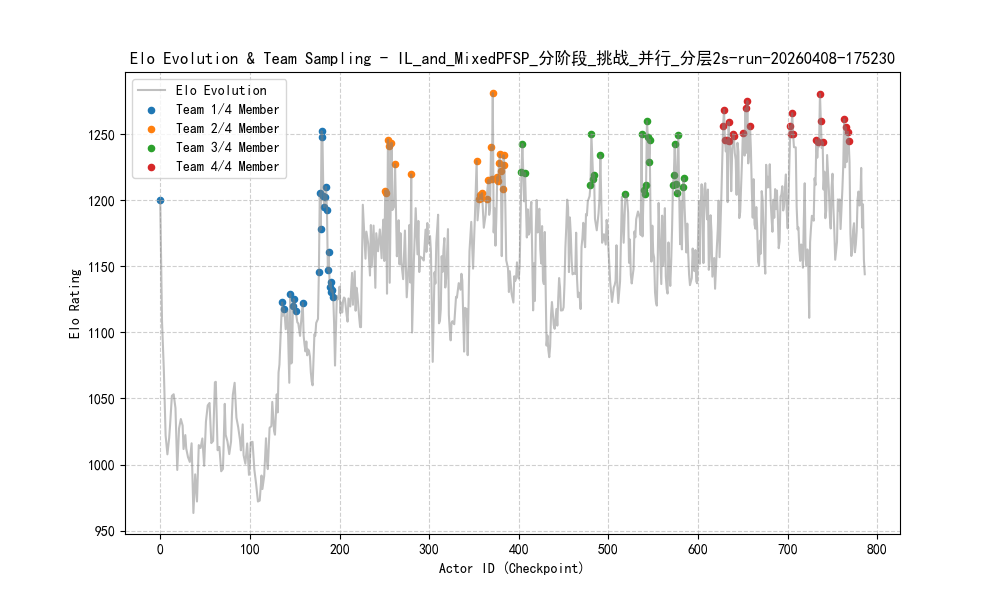
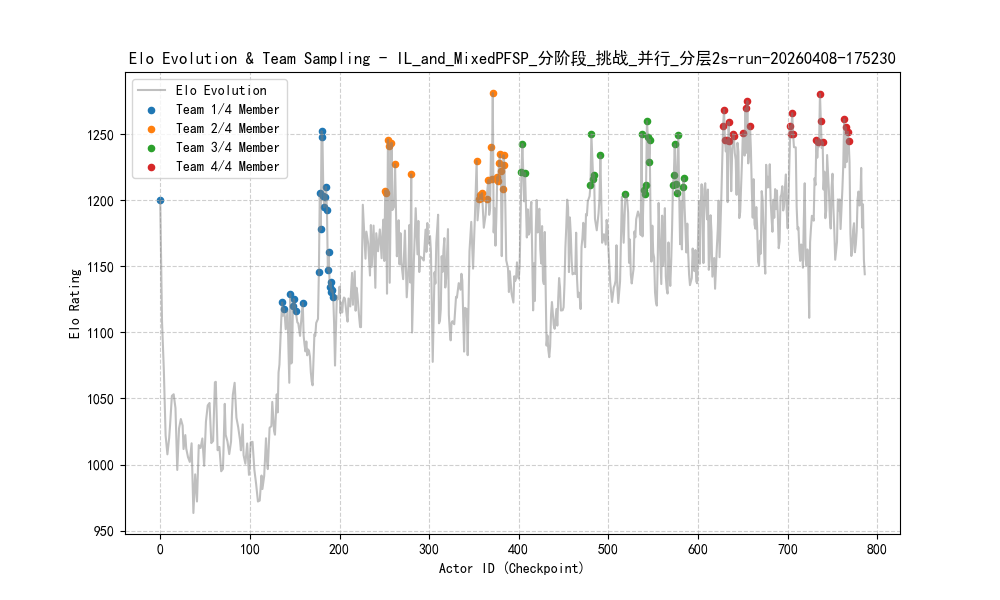
历史策略博弈矩阵

diff --git a/结果展示/历史切片博弈矩阵 并行 原目录.py b/结果展示/历史切片博弈矩阵 并行 原目录.py
@@ -96,8 +96,8 @@ def run_battle(env, blue_wrapper, red_wrapper, device):
                 r_act, _, _, _ = red_wrapper.get_action(r_obs, explore=explore_dict, temp=temp_dict)
                 b_act, _, _, _ = blue_wrapper.get_action(b_obs, explore=explore_dict, temp=temp_dict)
             # 交给环境物理函数使用 tabu=1 (相对宽松的条件) 拦截无效开火
-            if r_act['bern'][0]: launch_missile_immediately(env, 'r', tabu=1)
-            if b_act['bern'][0]: launch_missile_immediately(env, 'b', tabu=1)
+            if r_act['bern'][0]: launch_missile_immediately(env, 'r', tabu=0)
+            if b_act['bern'][0]: launch_missile_immediately(env, 'b', tabu=0)
             r_label, b_label = r_act['cat'][0], b_act['cat'][0]
 
         r_maneuver = env.maneuver14LR(env.RUAV, r_label)
@@ -122,7 +122,7 @@ def worker_process_battle(args_pack):
     
     # 1. 初始化环境
     # 注意：这里假设 Namespace 参数是固定的，如果需要动态传参需修改 args_pack
-    env = ChooseStrategyEnv(argparse.Namespace(max_episode_len=10 * 60, R_cage=45e3), tacview_show=0)
+    env = ChooseStrategyEnv(argparse.Namespace(max_episode_len=12 * 60, R_cage=45e3), tacview_show=0)
     state_dim, action_dims = env.obs_dim, {'cont':0, 'cat':env.fly_act_dim, 'bern':env.fire_dim}
     
     # 2. 初始化模型
@@ -196,6 +196,7 @@ if __name__ == "__main__":
     # 6s
     # name = 'IL_and_MixedPFSP_分阶段_挑战_并行_分层-run-20260326-172341'
     # 2s
+    # name = 'IL_and_MixedPFSP_高门槛_挑战_并行_分层2s-run-20260410-203506'
     name = 'IL_and_MixedPFSP_分阶段_挑战_并行_分层2s-run-20260408-175230'
 
     device = torch.device("cuda" if torch.cuda.is_available() else "cpu")

diff --git a/TrainAndTests/Combats/CombatPPOWithIL3_parallel_hierarch.py b/TrainAndTests/Combats/CombatPPOWithIL3_parallel_hierarch.py
@@ -1341,12 +1341,12 @@ def run_MLP_simulation(
                         min_rule_elo = np.min(rule_elos)
                         max_rule_elo = np.max(rule_elos)
                     
-                    # rule_elo_thres = ADMISSION_THRESHOLD * max_rule_elo +\
-                    #     (1-ADMISSION_THRESHOLD) * min_rule_elo
-
-                    # 仅对高门槛使用
-                    rule_elo_thres = ADMISSION_THRESHOLD * elo_ratings['Rule_2'] +\
+                    rule_elo_thres = ADMISSION_THRESHOLD * max_rule_elo +\
                         (1-ADMISSION_THRESHOLD) * min_rule_elo
+
+                    # # 仅对高门槛使用
+                    # rule_elo_thres = ADMISSION_THRESHOLD * elo_ratings['Rule_2'] +\
+                    #     (1-ADMISSION_THRESHOLD) * min_rule_elo
 
                     if main_agent_elo >= rule_elo_thres:
                         # 满员清理

diff --git a/TrainAndTests/Combats/分层并行4 混合PFSP无预训练.py b/TrainAndTests/Combats/分层并行4 混合PFSP无预训练.py
@@ -2,6 +2,7 @@ from CombatPPOWithIL3_parallel_hierarch import *
 from datetime import datetime
 from prepare_il_datas_hierarchical import run_rules
 
+# 指定中断续训的目录。如果为 None，则正常开启新训练。
 resume_target_dir = None
 
 mission_name = 'NoILPFSP_分阶段_混规则对手_挑战_并行_分层2s'
@@ -123,7 +124,7 @@ if __name__=='__main__':
         use_sil = 0,
         sigma_elo = 500,  # 200,
         WARM_UP_STEPS = 100e3, # 500e3, # 1e3 为debug
-        ADMISSION_THRESHOLD = 0.5, # 几乎不设门限
+        ADMISSION_THRESHOLD = 0.5,
         MAX_HISTORY_SIZE = 300,  # 100
         rule_actor_rate = 0.2, # “复习”概率
         K_FACTOR = 16,  # 32 原先振荡太大了

diff --git a/TrainAndTests/Combats/训练终止状态对rule批量测试 分层.py b/TrainAndTests/Combats/训练终止状态对rule批量测试 分层.py
@@ -55,7 +55,7 @@ def create_initial_state_worker(randomized=1):
 if __name__ == "__main__":
 
     # experiment_name = "只模仿学习" # "只模仿学习"
-    experiment_name = "无学习-run-20260413-100719"
+    experiment_name = "只模仿学习-run-20260413-100737"
     
     "只模仿学习-run-20260413-100737"
     "无学习-run-20260413-100719"

diff --git a/TrainAndTests/Combats/分层并行3 纯PFSP无预训练.py b/TrainAndTests/Combats/分层并行3 纯PFSP无预训练.py
@@ -2,6 +2,7 @@ from CombatPPOWithIL3_parallel_hierarch import *
 from datetime import datetime
 from prepare_il_datas_hierarchical import run_rules
 
+# 指定中断续训的目录。如果为 None，则正常开启新训练。
 resume_target_dir = None
 
 mission_name = 'NoILPFSP_分阶段_挑战_并行_分层2s'
